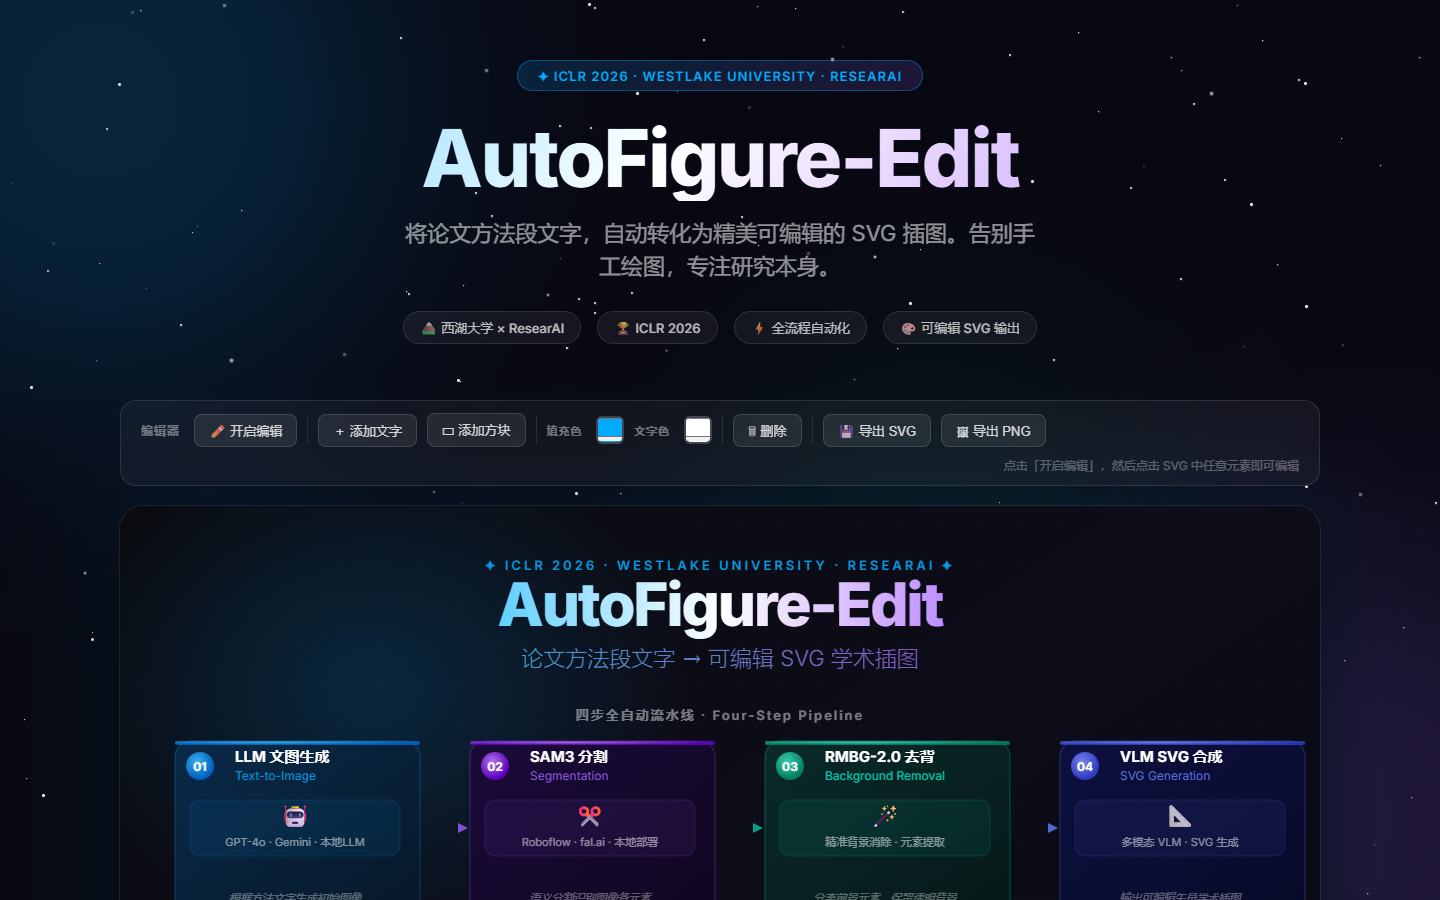
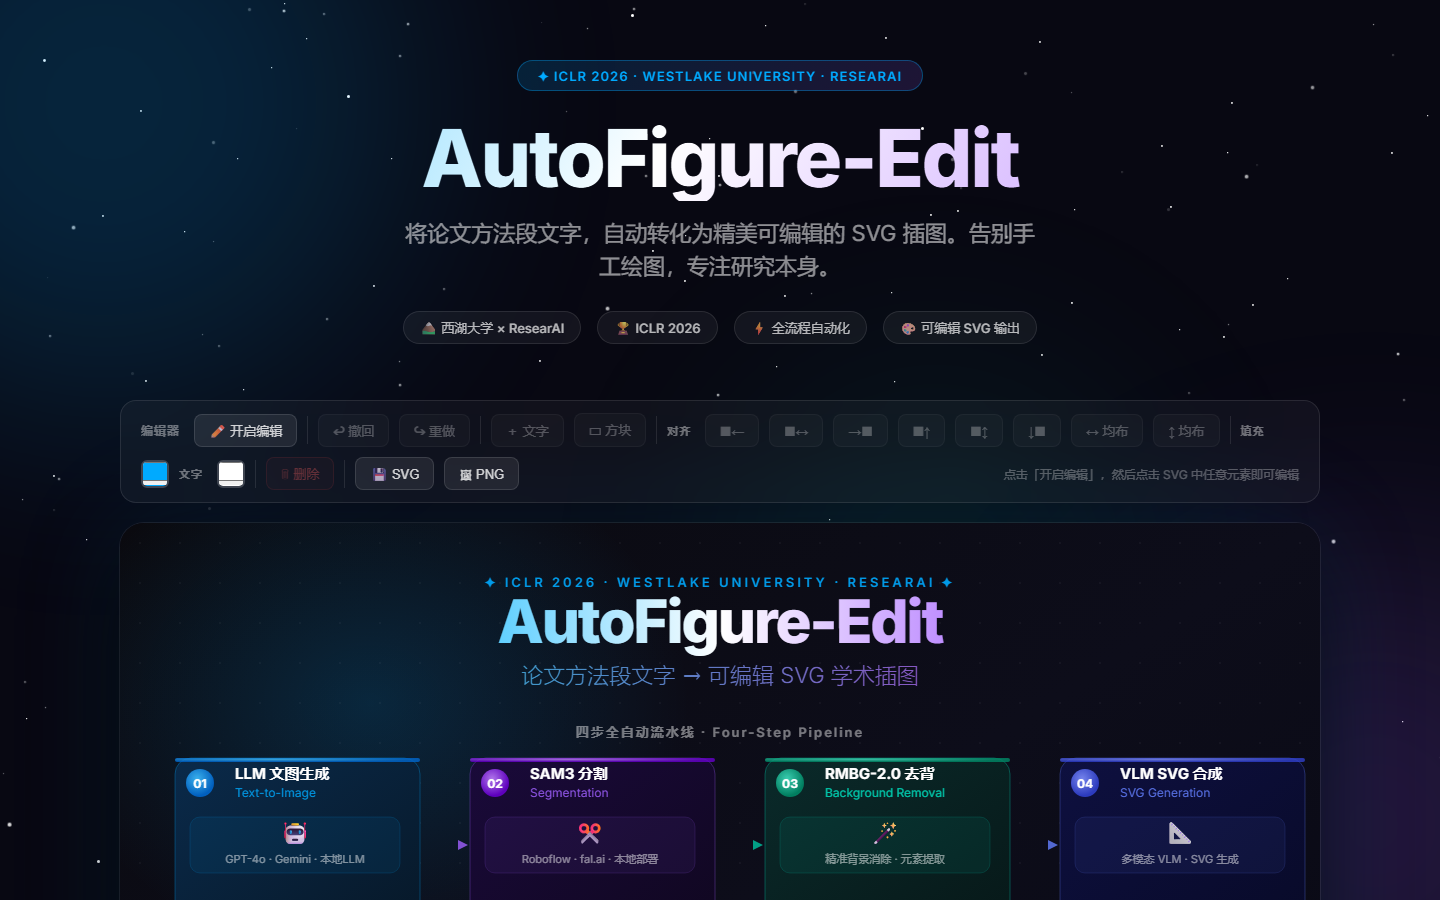
docs: update README with full inline editor features (drag, undo/redo, multi-select, rubber-band, smart align guides, align toolbar) + refresh screenshots

diff --git a/README.md b/README.md
@@ -19,6 +19,11 @@
 - **四步 AI 流水线**：文字 → 图片生成 → SAM3 分割 → 背景去除 → SVG 组装
 - **多 LLM 提供商**：支持 OpenRouter、边界AI（国内）、Google Gemini、本地 Ollama
 - **网页内联编辑器**：生成后直接在浏览器中可视化编辑 SVG，无需安装额外软件
+  - 🖱 **拖拽移动**：直接拖拽元素，支持 SVG viewBox 坐标系自动换算
+  - ↩ **撤销/重做**：最多 60 步历史，覆盖所有操作类型
+  - 🔲 **多选 & 橡皮筋框选**：Ctrl+单击或拖拽框选，支持批量移动/删除
+  - 📐 **智能对齐辅助线**：拖拽时黄色磁吸辅助线，8px 自动对齐
+  - 📊 **对齐工具栏**：6 种对齐 + 2 种均匀分布，一键整齐排版
 - **环境配置向导**：交互式 / 命令行两种方式管理 `.env` 配置
 - **自动更新检查**：一键对比本地与 GitHub 最新版本
 
@@ -94,16 +99,53 @@ python scripts/launch_editor.py --svg /path/to/final.svg --standalone
 
 ## 网页内联编辑器功能
 
+### 核心编辑能力
+
 | 功能 | 说明 |
 |------|------|
 | ✏ 编辑模式 | 点击工具栏「开启编辑」进入可交互状态 |
+| 🖱 拖拽移动 | 直接拖拽任意元素（rect/text/g），自动换算 SVG viewBox 坐标系；拖拽距离 < 4px 触发属性弹窗 |
 | 🎨 颜色填充 | 工具栏颜色拾取器一键修改元素填充色 |
 | 📝 文字编辑 | 修改文字内容、字号、颜色 |
 | ＋ 添加元素 | 插入新文本节点或矩形元素 |
-| ↩ 撤销/重做 | Ctrl+Z / Ctrl+Y 多步历史记录 |
+| ↩ 撤销/重做 | Ctrl+Z / Ctrl+Y，最多 60 步历史记录，覆盖移动/样式/新增/删除所有操作 |
 | ⬇ 导出 | 一键导出 SVG 或 PNG（支持 1×/2×/3× 分辨率） |
 
-**键盘快捷键**：`Ctrl+Z` 撤销 · `Ctrl+S` 导出 SVG · `Delete` 删除元素 · `Esc` 退出选中
+### 多选与批量操作
+
+| 功能 | 说明 |
+|------|------|
+| 🔲 Ctrl + 单击多选 | 按住 Ctrl 逐个点击，累积选中多个元素 |
+| ⬜ 橡皮筋框选 | 在空白处拖拽绘制选框，松开后框内所有元素被选中 |
+| 🗑 批量删除 | 选中多个元素后按 `Delete` 一次性删除 |
+| 🔀 批量移动 | 多选后整体拖拽，所有选中元素保持相对位置移动 |
+
+### 智能对齐系统
+
+| 功能 | 说明 |
+|------|------|
+| 📐 智能对齐辅助线 | 拖拽时实时显示黄色参考线，8px 磁吸阈值，自动对齐其他元素的边缘/中心 |
+| ◀ 左对齐 | 所有选中元素向最左侧元素的左边缘对齐 |
+| ↔ 水平居中对齐 | 所有选中元素的水平中心对齐 |
+| ▶ 右对齐 | 所有选中元素向最右侧元素的右边缘对齐 |
+| ▲ 顶对齐 | 所有选中元素向最顶部元素的上边缘对齐 |
+| ↕ 垂直居中对齐 | 所有选中元素的垂直中心对齐 |
+| ▼ 底对齐 | 所有选中元素向最底部元素的下边缘对齐 |
+| ↔ 横向均匀分布 | 选中元素在水平方向等间距分布 |
+| ↕ 纵向均匀分布 | 选中元素在垂直方向等间距分布 |
+
+### 键盘快捷键
+
+| 快捷键 | 功能 |
+|--------|------|
+| `Ctrl+Z` | 撤销 |
+| `Ctrl+Y` | 重做 |
+| `Ctrl+S` | 导出 SVG |
+| `Delete` | 删除选中元素 |
+| `Esc` | 取消选中 |
+| `↑ ↓ ← →` | 方向键微调位置（1 单位） |
+| `Shift + 方向键` | 大步微调位置（10 单位） |
+| `Ctrl + 单击` | 追加/取消多选 |
 
 ---
 
